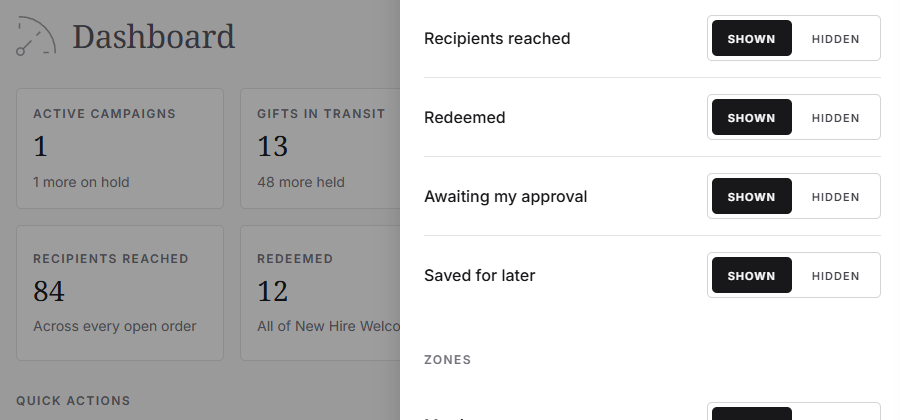
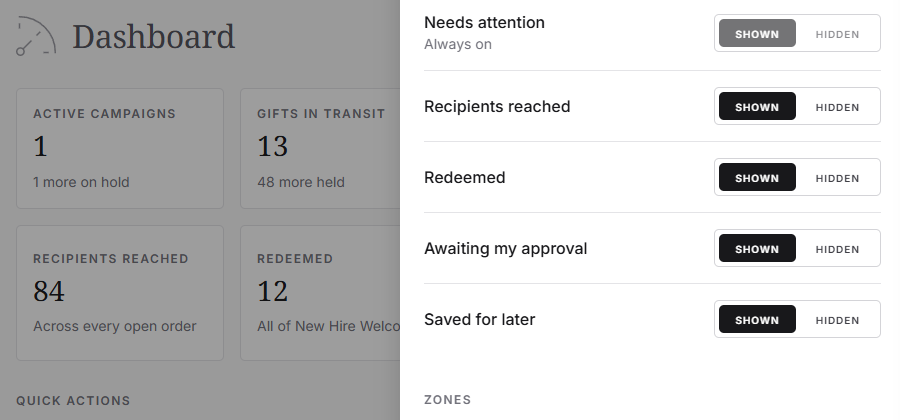
feat(portal): the entity card stops being lazy, the badge learns to whisper, and the horizontal rhythm joins the law
THE CARD, REBUILT. The preview stands in a frame now, a quiet Zinc
50 ground inside a Zinc 200 hairline with the object centred in it:
a photograph on a white card is a picture, the same photograph in a
frame is a thing you own. How far an order has got is an element
rather than a sentence, a 4px track with the ink filling it and the
words underneath, and the stopped campaign fills in the alert's own
red, so the one red line on the page is the one thing not moving. A
quiet chevron at the right edge promises the overview the whole
plate opens. In a 277 column the frame steps down to 56 and the
chevron goes, because measured there the pair left 125px of text and
broke every name over two lines; above 340 both come back.

THE BADGE GREW A SECOND SKIN, in the system where it lives: --quiet
is a 6px dot of the tone and the word in that tone's 900 ink, no
ground at all. The rule is written into badge.css: quiet on light
plates and paper, filled on dark ground and over photographs, where
a hairline word would vanish. It also settles the contrast question
the filled skin left open, since white on lime 600 and amber 500
never reached AA and the 900 rung on white clears it easily.

THE HORIZONTAL RHYTHM IS THE SAME 2:1 AS THE VERTICAL. The three
blocks are sections standing side by side, so their gutter is twice
the gutter inside a section: 32 between columns and between the rail
and the board, 16 between the tiles of the metrics row and between
[…]

diff --git a/live/portal-dashboard.html b/live/portal-dashboard.html
@@ -461,7 +461,13 @@ a.gbppd-door, body.gb-demo a.gbppd-door { color: var(--zinc-900); }
    containers, the way booking.css measures its compact layout. */
 .gbppd-cols {
   display: grid;
-  gap: var(--space-24);
+  /* THE SAME 2:1 LAW, LYING DOWN (10.09). These three columns are
+     SECTIONS standing side by side, not widgets inside one, so the
+     gutter between them is twice the gutter inside a section: 32
+     between the blocks, 16 between the tiles of the metrics row and
+     between the doors of Quick actions. The rail keeps the same 32,
+     because the rail and the board are two sections too. */
+  gap: var(--space-32);
   grid-auto-flow: column;
   grid-auto-columns: minmax(0, 1fr);
   margin-top: var(--space-32);
@@ -639,10 +645,15 @@ a.gbppd-door, body.gb-demo a.gbppd-door { color: var(--zinc-900); }
    that empties gives its width back to its neighbours, and auto
    tracks are what make that possible), and a working behaviour beats
    eight pixels of comfort. Said out loud rather than quietly traded. */
+/* THE ENTITY CARD, SECOND PASS (10.09, «лениво» and it was): the
+   preview stands in a frame like an object on a shelf, the status
+   speaks in the quiet skin of the badge, how far it has got is a
+   real element rather than a sentence, and the right edge promises
+   the drawer with a chevron. One skeleton, two skins, as before. */
 .gbppd-row {
   display: grid;
-  grid-template-columns: var(--space-64) minmax(0, 1fr);
-  align-items: start;
+  grid-template-columns: 72px minmax(0, 1fr) var(--space-16);   /* 72 = the frame; NO TOKEN, measured by eye against the 64 rung: 64 left the object cramped inside its own hairline */
+  align-items: center;
   gap: var(--space-8) var(--space-16);
   padding: var(--space-16);
   text-decoration: none;
@@ -658,12 +669,29 @@ a.gbppd-door, body.gb-demo a.gbppd-door { color: var(--zinc-900); }
 .gbppd-row, .gbppd-camp { scroll-margin-top: calc(var(--header-h) + var(--space-16)); }
 /* No third cell any more: the status rides on the name line as a
    badge, so the row is a thumb and a pair of lines at every width. */
-.gbppd-thumb {
-  width: var(--space-64);
-  height: var(--space-64);
+/* THE FRAME. A photograph dropped on a white card is a picture; the
+   same photograph on a quiet ground inside a hairline is an OBJECT,
+   which is what a gift is. Zinc 50 ground, Zinc 200 hairline, a
+   fixed 72 square, and the thing itself centred inside with room to
+   breathe rather than cropped to the edges. */
+.gbppd-thumbwrap {
+  position: relative;
+  width: 72px;
+  height: 72px;
+  display: grid;
+  place-items: center;
+  padding: var(--space-8);
+  border: 1px solid var(--zinc-200);
   border-radius: var(--radius);
-  background: var(--zinc-100);
-  object-fit: cover;
+  background: var(--zinc-50);
+  overflow: hidden;
+}
+.gbppd-thumb {
+  max-width: 100%;
+  max-height: 100%;
+  width: auto;
+  height: auto;
+  object-fit: contain;
   display: block;
 }
 .gbppd-row__what {
@@ -676,7 +704,7 @@ a.gbppd-door, body.gb-demo a.gbppd-door { color: var(--zinc-900); }
 }
 .gbppd-row__who {
   display: block;
-  margin: 2px 0 0;                  /* a quarter of --space-8: two lines of ONE thought */
+  margin: var(--space-8) 0 0;       /* the rung: the context is its own line of the ladder, not a whisper under the name */
   font-size: 14px;
   line-height: 1.5;
   color: var(--zinc-500);
@@ -684,12 +712,53 @@ a.gbppd-door, body.gb-demo a.gbppd-door { color: var(--zinc-900); }
 /* How far it has got. The working voice, one rung quieter than the
    name, and it never becomes a badge: a badge is a state, a fraction
    is a measurement. */
+/* HOW FAR IT HAS GOT, AS AN ELEMENT. A 4px track on the grey ramp
+   with the ink filling it, and the words under it. The stopped
+   campaign fills in the alert's error tone, so the one red line on
+   the page is the one thing that is not moving. */
+.gbppd-far { display: block; margin-top: var(--space-8); }
+.gbppd-far__track {
+  display: block;
+  height: 4px;                       /* NO TOKEN: half of --space-8, the thinnest bar that still reads as a bar */
+  border-radius: var(--radius-pill);
+  background: var(--zinc-100);
+  overflow: hidden;
+}
+.gbppd-far__fill {
+  display: block;
+  height: 100%;
+  border-radius: var(--radius-pill);
+  background: var(--zinc-900);
+}
+.gbppd-far--stopped .gbppd-far__fill { background: #ef4444; }   /* the badge's error fill, the same red the strip and the tile use */
 .gbppd-row__far {
   display: block;
   margin-top: var(--space-8);
   font-size: 14px;
   line-height: 1.5;
   color: var(--zinc-700);
+}
+/* THE PROMISE OF THE DOOR. A quiet chevron at the right edge, on the
+   axis of the row: the card opens an overview, and the eye should
+   know that before the hand tries. */
+.gbppd-row__go {
+  display: grid;
+  place-items: center;
+  color: var(--zinc-400);
+}
+.gbppd-row:hover .gbppd-row__go { color: var(--zinc-700); }
+
+/* AND IN A NARROW COLUMN THE ROW GIVES BACK WHAT IT CANNOT AFFORD.
+   Measured at 1280: the board column is 277, and a 72 frame plus a
+   chevron leave 125px of text, which breaks «Coffee Lover Set» over
+   two lines and pushes the badge onto the second. So under 340 the
+   frame steps down to 56 and the chevron goes: the row still opens,
+   the whole plate is the door, and the name gets its line back
+   (173px). Above 340 both come back. Squinted at, not derived. */
+@container col (max-width: 339px) {
+  .gbppd-row { grid-template-columns: 56px minmax(0, 1fr); }
+  .gbppd-thumbwrap { width: 56px; height: 56px; padding: 4px; }   /* 4 = half the rung, the frame keeps its inset proportion */
+  .gbppd-row__go { display: none; }
 }
 
 /* THE STATUS BADGE IS A SYSTEM ORGANISM NOW (gbppl-portal-dashboard-4).
@@ -749,8 +818,8 @@ a.gbppd-door, body.gb-demo a.gbppd-door { color: var(--zinc-900); }
 .gbppd-thumbwrap { position: relative; }
 .gbppd-thumbwrap .gbppd-more-count {
   position: absolute;
-  right: 2px;
-  bottom: 2px;
+  right: 0;
+  bottom: 0;
   padding: 0 var(--space-8);
   border-radius: var(--radius);
   background: rgb(9 9 11 / .72);      /* NO TOKEN: the scrim of the house drawer, reused so a chip on a photograph is legible on any photograph */
@@ -1657,28 +1726,31 @@ a.gbppd-empty__door, body.gb-demo a.gbppd-empty__door { color: var(--zinc-900); 
               <a class="gbppd-row" id="ord-coffee" href="#ord-coffee" data-gbppd-order="ord-coffee">
                 <span class="gbppd-thumbwrap"><img class="gbppd-thumb" src="../system/assets/products/1094-main.webp" alt="" loading="lazy"></span>
                 <span>
-                  <span class="gbppd-row__what">Coffee Lover Set<span class="gb-badge gb-badge--info">On the way</span></span>
+                  <span class="gbppd-row__what">Coffee Lover Set<span class="gb-badge gb-badge--quiet gb-badge--info">On the way</span></span>
                   <span class="gbppd-row__who">Direct order</span>
-                  <span class="gbppd-row__far">18 of 24 delivered</span>
+                  <span class="gbppd-far"><span class="gbppd-far__track"><span class="gbppd-far__fill" style="width: 75%"></span></span><span class="gbppd-row__far">18 of 24 delivered</span></span>
                 </span>
+                <span class="gbppd-row__go" aria-hidden="true"><span data-gb-icon="chevron-right" data-gb-icon-size="16"></span></span>
               </a>
 
               <a class="gbppd-row" id="ord-amalfi" href="#ord-amalfi" data-gbppd-order="ord-amalfi">
                 <span class="gbppd-thumbwrap"><img class="gbppd-thumb" src="../system/assets/products/1081-main.webp" alt="" loading="lazy"></span>
                 <span>
-                  <span class="gbppd-row__what">Taste of Amalfi<span class="gb-badge gb-badge--info">On the way</span></span>
+                  <span class="gbppd-row__what">Taste of Amalfi<span class="gb-badge gb-badge--quiet gb-badge--info">On the way</span></span>
                   <span class="gbppd-row__who">New Hire Welcome</span>
-                  <span class="gbppd-row__far">5 of 12 delivered</span>
+                  <span class="gbppd-far"><span class="gbppd-far__track"><span class="gbppd-far__fill" style="width: 42%"></span></span><span class="gbppd-row__far">5 of 12 delivered</span></span>
                 </span>
+                <span class="gbppd-row__go" aria-hidden="true"><span data-gb-icon="chevron-right" data-gb-icon-size="16"></span></span>
               </a>
 
               <a class="gbppd-row" id="ord-holiday" href="#camp-holiday" data-gbppd-order="ord-holiday">
                 <span class="gbppd-thumbwrap"><img class="gbppd-thumb" src="../system/assets/products/1118-main.webp" alt="" loading="lazy"></span>
                 <span>
-                  <span class="gbppd-row__what">Winter Reserve Box<span class="gb-badge gb-badge--error">On hold</span></span>
+                  <span class="gbppd-row__what">Winter Reserve Box<span class="gb-badge gb-badge--quiet gb-badge--error">On hold</span></span>
                   <span class="gbppd-row__who">Holiday Client Gifts</span>
-                  <span class="gbppd-row__far">Nothing shipped yet</span>
+                  <span class="gbppd-far gbppd-far--stopped"><span class="gbppd-far__track"><span class="gbppd-far__fill" style="width: 2%"></span></span><span class="gbppd-row__far">Nothing shipped yet</span></span>
                 </span>
+                <span class="gbppd-row__go" aria-hidden="true"><span data-gb-icon="chevron-right" data-gb-icon-size="16"></span></span>
               </a>
 
             </div>
@@ -1691,19 +1763,21 @@ a.gbppd-empty__door, body.gb-demo a.gbppd-empty__door { color: var(--zinc-900); 
               <a class="gbppd-row" id="ord-founders" href="#ord-founders" data-gbppd-order="ord-founders">
                 <span class="gbppd-thumbwrap"><img class="gbppd-thumb" src="../system/assets/products/1106-main.webp" alt="" loading="lazy"></span>
                 <span>
-                  <span class="gbppd-row__what">Founders Day Box<span class="gb-badge gb-badge--success">Delivered</span></span>
+                  <span class="gbppd-row__what">Founders Day Box<span class="gb-badge gb-badge--quiet gb-badge--success">Delivered</span></span>
                   <span class="gbppd-row__who">Direct order &middot; 22 August</span>
-                  <span class="gbppd-row__far">All 30 delivered</span>
+                  <span class="gbppd-far"><span class="gbppd-far__track"><span class="gbppd-far__fill" style="width: 100%"></span></span><span class="gbppd-row__far">All 30 delivered</span></span>
                 </span>
+                <span class="gbppd-row__go" aria-hidden="true"><span data-gb-icon="chevron-right" data-gb-icon-size="16"></span></span>
               </a>
 
               <a class="gbppd-row" id="ord-thankyou" href="#ord-thankyou" data-gbppd-order="ord-thankyou">
                 <span class="gbppd-thumbwrap"><img class="gbppd-thumb" src="../system/assets/products/1112-main.webp" alt="" loading="lazy"></span>
                 <span>
-                  <span class="gbppd-row__what">Client Thank You<span class="gb-badge gb-badge--success">Delivered</span></span>
+                  <span class="gbppd-row__what">Client Thank You<span class="gb-badge gb-badge--quiet gb-badge--success">Delivered</span></span>
                   <span class="gbppd-row__who">Direct order &middot; 2 August</span>
-                  <span class="gbppd-row__far">All 15 delivered</span>
+                  <span class="gbppd-far"><span class="gbppd-far__track"><span class="gbppd-far__fill" style="width: 100%"></span></span><span class="gbppd-row__far">All 15 delivered</span></span>
                 </span>
+                <span class="gbppd-row__go" aria-hidden="true"><span data-gb-icon="chevron-right" data-gb-icon-size="16"></span></span>
               </a>
 
             </div>
@@ -1718,6 +1792,7 @@ a.gbppd-empty__door, body.gb-demo a.gbppd-empty__door { color: var(--zinc-900); 
                   <span class="gbppd-row__what">Famous Caymus Collection</span>
                   <span class="gbppd-row__who">$130 - $195</span>
                 </span>
+                <span class="gbppd-row__go" aria-hidden="true"><span data-gb-icon="chevron-right" data-gb-icon-size="16"></span></span>
               </a>
               <a class="gbppd-row gbppd-favrow" href="catalog/index.html">
                 <span class="gbppd-thumbwrap"><img class="gbppd-thumb" src="../system/assets/products/1081-main.webp" alt="" loading="lazy"></span>
@@ -1725,6 +1800,7 @@ a.gbppd-empty__door, body.gb-demo a.gbppd-empty__door { color: var(--zinc-900); 
                   <span class="gbppd-row__what">Taste of Amalfi</span>
                   <span class="gbppd-row__who">$200</span>
                 </span>
+                <span class="gbppd-row__go" aria-hidden="true"><span data-gb-icon="chevron-right" data-gb-icon-size="16"></span></span>
               </a>
               <a class="gbppd-row gbppd-favrow" href="catalog/index.html">
                 <span class="gbppd-thumbwrap"><img class="gbppd-thumb" src="../system/assets/products/1094-main.webp" alt="" loading="lazy"></span>
@@ -1732,6 +1808,7 @@ a.gbppd-empty__door, body.gb-demo a.gbppd-empty__door { color: var(--zinc-900); 
                   <span class="gbppd-row__what">Beats Solo Buds</span>
                   <span class="gbppd-row__who">$150</span>
                 </span>
+                <span class="gbppd-row__go" aria-hidden="true"><span data-gb-icon="chevron-right" data-gb-icon-size="16"></span></span>
               </a>
               <a class="gbppd-row gbppd-favrow" href="catalog/index.html">
                 <span class="gbppd-thumbwrap"><img class="gbppd-thumb" src="../system/assets/products/1106-main.webp" alt="" loading="lazy"></span>
@@ -1739,6 +1816,7 @@ a.gbppd-empty__door, body.gb-demo a.gbppd-empty__door { color: var(--zinc-900); 
                   <span class="gbppd-row__what">Stags' Leap Wine Night and Day</span>
                   <span class="gbppd-row__who">$195 - $290</span>
                 </span>
+                <span class="gbppd-row__go" aria-hidden="true"><span data-gb-icon="chevron-right" data-gb-icon-size="16"></span></span>
               </a>
 
               <p class="gbppd-none" hidden>Nothing saved yet. <a href="catalog/index.html">Explore gifts</a> and tap the heart on anything you like.</p>
@@ -1774,10 +1852,11 @@ a.gbppd-empty__door, body.gb-demo a.gbppd-empty__door { color: var(--zinc-900); 
                 <span class="gbppd-thumbwrap"><img class="gbppd-thumb" src="../system/assets/products/1118-main.webp" alt="" loading="lazy"></span>
                 <span>
                   <span class="gb-eyebrow gbppd-row__type">Fulfillment</span>
-                  <span class="gbppd-row__what">Holiday Client Gifts<span class="gb-badge gb-badge--error">On hold</span></span>
+                  <span class="gbppd-row__what">Holiday Client Gifts<span class="gb-badge gb-badge--quiet gb-badge--error">On hold</span></span>
                   <span class="gbppd-row__who">Winter Reserve Box &middot; 48 recipients</span>
-                  <span class="gbppd-row__far">Nothing shipped yet</span>
+                  <span class="gbppd-far gbppd-far--stopped"><span class="gbppd-far__track"><span class="gbppd-far__fill" style="width: 2%"></span></span><span class="gbppd-row__far">Nothing shipped yet</span></span>
                 </span>
+                <span class="gbppd-row__go" aria-hidden="true"><span data-gb-icon="chevron-right" data-gb-icon-size="16"></span></span>
               </a>
 
               <!-- THE EMAIL CAMPAIGN, AND IT IS THE MULTI GIFT ONE.
@@ -1794,10 +1873,11 @@ a.gbppd-empty__door, body.gb-demo a.gbppd-empty__door { color: var(--zinc-900); 
                 <span class="gbppd-thumbwrap"><img class="gbppd-thumb" src="../system/assets/products/1081-main.webp" alt="" loading="lazy"><span class="gbppd-more-count" aria-hidden="true">+2</span></span>
                 <span>
                   <span class="gb-eyebrow gbppd-row__type">Email</span>
-                  <span class="gbppd-row__what">New Hire Welcome<span class="gb-badge gb-badge--info">Delivering</span></span>
+                  <span class="gbppd-row__what">New Hire Welcome<span class="gb-badge gb-badge--quiet gb-badge--info">Delivering</span></span>
                   <span class="gbppd-row__who">3 gift options &middot; 12 recipients</span>
-                  <span class="gbppd-row__far">5 of 12 delivered</span>
+                  <span class="gbppd-far"><span class="gbppd-far__track"><span class="gbppd-far__fill" style="width: 42%"></span></span><span class="gbppd-row__far">5 of 12 delivered</span></span>
                 </span>
+                <span class="gbppd-row__go" aria-hidden="true"><span data-gb-icon="chevron-right" data-gb-icon-size="16"></span></span>
               </a>
 
               <p class="gbppd-none" hidden>No campaign of this type yet. <a href="#">Create a campaign</a> and it will stand here.</p>
@@ -2207,7 +2287,15 @@ a.gbppd-empty__door, body.gb-demo a.gbppd-empty__door { color: var(--zinc-900); 
     return '<div class="gbppd-cz__row">' +
            '<span class="gbppd-cz__name">' + name +
            (note ? '<span class="gbppd-cz__note">' + note + '</span>' : '') + '</span>' +
-           '<div class="gb-toggle gb-toggle--small" role="radiogroup"' +
+           /* THE SMALLEST RUNG THE HOUSE HAS, and this drawer is its
+              FIRST CARRIER: --xsmall was drawn on 02.09 and has been
+              waiting for a control with a reason. A drawer of
+              thirteen switches is that reason; --small made every
+              row look like a decision. Semantically Ton wants a
+              Switch, and the house has none yet: the report carries
+              the request and the Figma source it should be born
+              from. */
+           '<div class="gb-toggle gb-toggle--xsmall" role="radiogroup"' +
            ' ' + key + '="' + id + '" aria-label="' + name + ' on the dashboard">' +
            '<button class="gb-toggle__item' + (on ? ' is-on' : '') + '" type="button" role="radio"' +
            (locked ? ' disabled' : '') +

diff --git a/system/components/badge.css b/system/components/badge.css
@@ -16,6 +16,8 @@
                zinc 800  #27272a   neutral, dark
                a light neutral: white plate, zinc 300 hairline,
                                 zinc 700 ink
+     skins     ONE in the mock, filled. A second, --quiet, was born
+               here on 10.09 for light surfaces; see its own block.
      twins     icon-only squares of the same six tones. NOT BUILT:
                the dashboard has no carrier for one, and a variant
                without a carrier is not born (law 0a.4). Documented
@@ -65,23 +67,63 @@
   vertical-align: baseline;
 }
 
-/* The six tones. Five are filled and speak in white; the sixth is
-   the quiet one and keeps its hairline. */
-.gb-badge--success { --gb-badge-bg: #65a30d; --gb-badge-ink: #ffffff; }  /* tailwind/lime/600  · Figma 3761-6514 */
-.gb-badge--info    { --gb-badge-bg: #06b6d4; --gb-badge-ink: #ffffff; }  /* tailwind/cyan/500 */
-.gb-badge--warning { --gb-badge-bg: #f59e0b; --gb-badge-ink: #ffffff; }  /* tailwind/amber/500 */
-.gb-badge--error   { --gb-badge-bg: #ef4444; --gb-badge-ink: #ffffff; }  /* tailwind/red/500 */
-.gb-badge--neutral { --gb-badge-bg: #27272a; --gb-badge-ink: #ffffff; }  /* tailwind/zinc/800 */
-.gb-badge--quiet {
-  --gb-badge-bg: var(--white);
-  --gb-badge-ink: var(--zinc-700);
-  border-color: var(--zinc-300);
-}
+/* ------------------------------------------------------------
+   THE SIX TONES. Each one carries THREE values now, because the
+   badge has two skins and they need different things from a tone:
+     --gb-badge-fill  the mock's flat colour (the 500/600 rung)
+     --gb-badge-on    what is legible ON that fill: white
+     --gb-badge-quiet the ink the same tone speaks in ON WHITE, and
+                      it is the alert canon's own 900 rung, so a
+                      strip and a badge of one meaning are one ink
+   ------------------------------------------------------------ */
+.gb-badge--success { --gb-badge-fill: #65a30d; --gb-badge-quiet: #365314; }  /* tailwind/lime 600 · Figma 3761-6514; quiet = lime 900 */
+.gb-badge--info    { --gb-badge-fill: #06b6d4; --gb-badge-quiet: #164e63; }  /* tailwind/cyan 500; quiet = cyan 900, the alert's info ink */
+.gb-badge--warning { --gb-badge-fill: #f59e0b; --gb-badge-quiet: #7c2d12; }  /* tailwind/amber 500; quiet = orange 900, the alert's warning ink */
+.gb-badge--error   { --gb-badge-fill: #ef4444; --gb-badge-quiet: #7f1d1d; }  /* tailwind/red 500; quiet = red 900, the alert's error ink */
+.gb-badge--neutral { --gb-badge-fill: #27272a; --gb-badge-quiet: var(--zinc-700); }  /* tailwind/zinc 800 */
 
-/* A badge without a tone is the quiet one: a bare plate with no
-   ground would read as a piece of the text it sits in. */
-.gb-badge:not([class*="gb-badge--"]) {
-  --gb-badge-bg: var(--white);
-  --gb-badge-ink: var(--zinc-700);
-  border-color: var(--zinc-300);
+/* A badge with no tone is the neutral one. */
+.gb-badge:not([class*="gb-badge--"]) { --gb-badge-fill: #27272a; --gb-badge-quiet: var(--zinc-700); }
+
+/* THE FILLED SKIN, the mock's own: the flat plate and white on it. */
+.gb-badge { --gb-badge-bg: var(--gb-badge-fill); --gb-badge-ink: #ffffff; }
+
+/* ------------------------------------------------------------
+   THE QUIET SKIN, --quiet (10.09).
+   ------------------------------------------------------------
+   A dot of the tone and the word in the tone's own dark ink, with
+   no ground at all. Born because a row of filled plates on white
+   cards shouts: five saturated chips down a column read as five
+   alarms, and only one of them is one.
+
+   WHERE EACH SKIN BELONGS, and this is the rule, not a preference:
+     QUIET on light plates and paper — cards, rows, tables, drawers.
+     FILLED on dark ground and over photographs, where a hairline
+       word would disappear and only a plate survives.
+
+   AND IT ANSWERS THE CONTRAST QUESTION the filled skin left open:
+   white on lime 600 measured 3.0:1 and on amber 500 2.0:1, both
+   under AA for 12px. The quiet skin speaks in the 900 rung on
+   white, which clears AA with room to spare, so the two tones that
+   could not be trusted filled are safe here. The filled skin keeps
+   the mock's values untouched for the surfaces it is for.
+   ------------------------------------------------------------ */
+.gb-badge--quiet {
+  --gb-badge-bg: transparent;
+  --gb-badge-ink: var(--gb-badge-quiet);
+  padding-inline: 0;
+  border-color: transparent;
+  display: inline-flex;
+  align-items: center;
+  gap: var(--space-8);
+}
+/* The dot is the tone at full voice: the colour still carries the
+   meaning, it just stops being the size of a plate. */
+.gb-badge--quiet::before {
+  content: "";
+  flex: 0 0 auto;
+  width: 6px;                          /* NO TOKEN: the smallest mark that still reads as a colour, a quarter of the 24 row */
+  height: 6px;
+  border-radius: var(--radius-circle);
+  background: var(--gb-badge-fill);
 }
